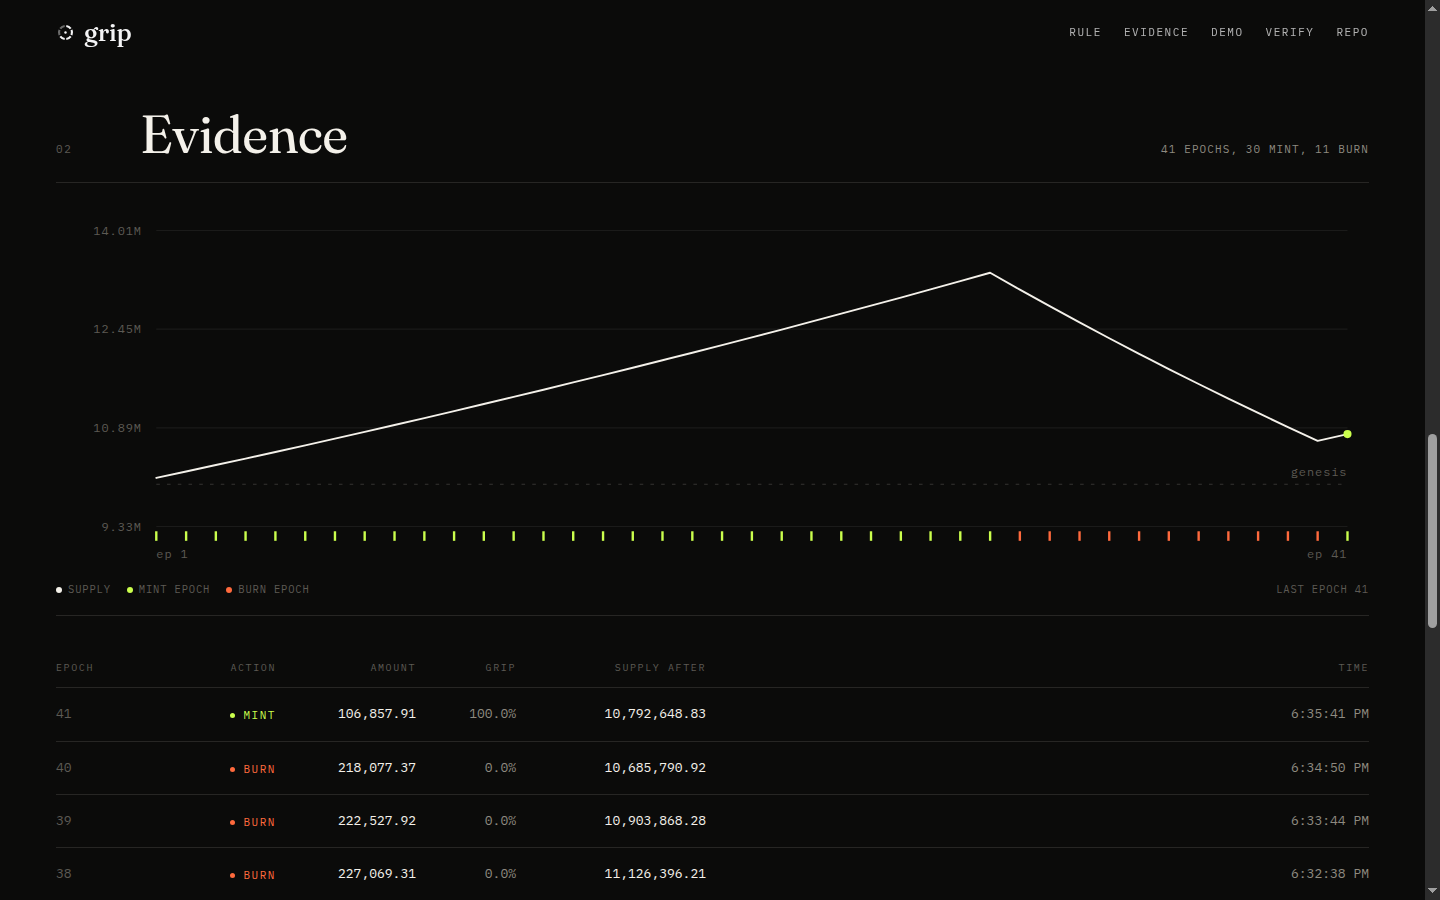
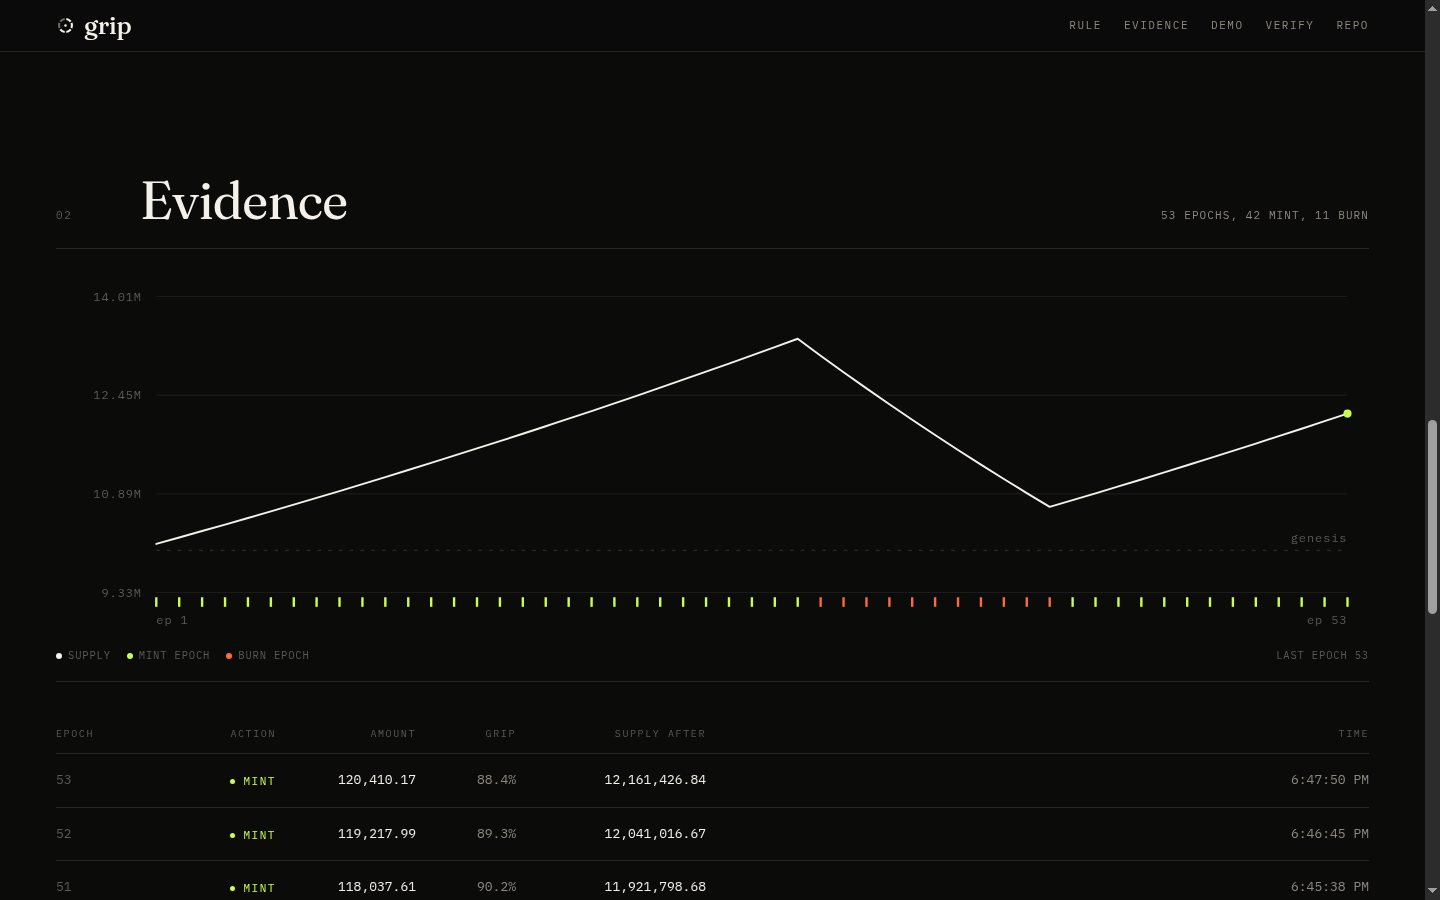
ui: give the sphere its own column, and let the page move
Composition first, since the note was that the sphere crowded the headline.
It was true and it was measurable: the sphere's left edge sat 0px from the
type. The canvas now measures the right edge of the hero copy (heading, lede,
last CTA) on resize and after the webfonts settle, then sizes and places itself
in the space that is actually free, clamped to the viewport. Gap is now 81px at
1440 and it holds at every width because it is derived, not hardcoded.

Motion, all tied to something real:
- an epoch rolling sends one ring out from the sphere, and flashes the value
  that changed in the readout
- bands fade up when they enter the viewport, hero rises once on load
- scrolling gives the sphere a little rotational inertia
- the nav gains a real surface past the fold instead of letting body text bleed
  through the difference blend, and anchors now clear it

Verified: epoch 52 to 53 in the browser, supply updated, 2 cells flashed, zero
window error events. All nine checks in verify.sh pass.

diff --git a/docs/index.html b/docs/index.html
@@ -49,7 +49,20 @@
     display:flex;align-items:center;gap:24px;
     padding:20px var(--gut);
     mix-blend-mode:difference;
+    transition:background .28s ease,border-color .28s ease,padding .28s ease;
+    border-bottom:1px solid transparent;
   }
+  .top.solid{
+    mix-blend-mode:normal;
+    background:rgba(11,11,10,.86);
+    backdrop-filter:blur(16px) saturate(150%);
+    -webkit-backdrop-filter:blur(16px) saturate(150%);
+    border-bottom-color:var(--line);
+    padding-top:13px;padding-bottom:13px;
+  }
+  .top.solid .logo{color:var(--ink)}
+  .top.solid nav a{color:var(--muted)}
+  .top.solid nav a:hover{color:var(--ink)}
   .logo{
     display:flex;align-items:center;gap:9px;
     font-family:var(--serif);font-size:25px;letter-spacing:-.01em;line-height:1;
@@ -167,7 +180,7 @@
   }
 
   /* ---------------------------------------------------------- bands */
-  .band{padding:clamp(72px,12vh,140px) var(--gut)}
+  .band{padding:clamp(72px,12vh,140px) var(--gut);scroll-margin-top:84px}
   .band-in{max-width:1320px;margin:0 auto}
   .band-head{
     display:grid;grid-template-columns:64px 1fr auto;align-items:baseline;gap:20px;
@@ -267,12 +280,31 @@
   }
   .err.on{display:block}
 
+  /* entrance: the hero rises, once */
+  .js .hero > *{animation:rise .85s cubic-bezier(.2,.8,.2,1) both}
+  .js .hero > :nth-child(2){animation-delay:.06s}
+  .js .hero > :nth-child(3){animation-delay:.13s}
+  .js .hero > :nth-child(4){animation-delay:.2s}
+  .js .readout{animation:rise .9s cubic-bezier(.2,.8,.2,1) .28s both}
+  @keyframes rise{from{opacity:0;transform:translateY(14px)}to{opacity:1;transform:none}}
+
+  /* bands arrive when they are reached, not on a timer */
+  .js .band{opacity:0;transform:translateY(18px);transition:opacity .75s ease,transform .75s cubic-bezier(.2,.8,.2,1)}
+  .js .band.in{opacity:1;transform:none}
+
+  /* a live value pulses when it changes */
+  .readout .cell.flash .v{animation:flash .9s ease-out}
+  @keyframes flash{0%{color:var(--lime)}100%{color:var(--ink)}}
+
   @media (prefers-reduced-motion:reduce){
     *{animation:none!important;transition:none!important}
     .curve{stroke-dashoffset:0}
+    .js .band,.js .hero > *,.js .readout{opacity:1!important;transform:none!important}
   }
 </style>
 </head>
+<script>document.documentElement.classList.add("js")</script>
+
 <body>
 
 <header class="top">
@@ -528,6 +560,8 @@
   let W = 0, H = 0, DPR = 1;
   let pts = [], rings = [], mouseX = 0, mouseY = 0, targetMX = 0, targetMY = 0;
   let gripNow = 0, gripTarget = 0, gripInit = false, t0 = performance.now();
+  let textEdge = 0, spins = 0, spinVel = 0;
+  const shocks = [];
 
   const fib = (n) => {
     const out = [], ga = Math.PI * (3 - Math.sqrt(5));
@@ -553,11 +587,25 @@
     }
   };
 
+  // The sphere is placed against the measured right edge of the hero copy, so the two never
+  // share pixels at any width. Measured on resize and once the webfonts have settled.
+  const measure = () => {
+    if (window.innerWidth < 900) { textEdge = 0; return; }
+    const r = ['.hero h1', '.lede'].map((sel) => {
+      const el = document.querySelector(sel);
+      return el ? el.getBoundingClientRect().right : 0;
+    });
+    const acts = document.querySelector('.actions');
+    if (acts && acts.lastElementChild) r.push(acts.lastElementChild.getBoundingClientRect().right);
+    textEdge = Math.max.apply(null, r);
+  };
+
   const resize = () => {
     DPR = Math.min(2, window.devicePixelRatio || 1);
     W = cv.clientWidth; H = cv.clientHeight;
     cv.width = Math.round(W * DPR); cv.height = Math.round(H * DPR);
     cx.setTransform(DPR, 0, 0, DPR, 0, 0);
+    measure();
   };
 
   const project = (p, R, rot) => {
@@ -583,20 +631,31 @@
     mouseX += (targetMX - mouseX) * 0.05;
     mouseY += (targetMY - mouseY) * 0.05;
 
-    cx0 = W * (W < 760 ? 0.5 : 0.64);
-    cy0 = H * (W < 760 ? 0.185 : 0.46);
-
-    const base = Math.min(W, H) * (W < 760 ? 0.23 : 0.31);
     const tight = 1.0 - 0.16 * gripNow;            // gripped: contracts
     const loose = 1.0 + 0.34 * (1 - gripNow);      // folding: disperses
-    const R = base * tight * loose;
+    const base = Math.min(W, H) * (W < 900 ? 0.24 : 0.275);
+    let R = base * tight * loose;
+
+    if (textEdge) {
+      const gap = 52, rightLimit = W - 30, reach = 1.16; // rings extend past the sphere radius
+      const avail = rightLimit - (textEdge + gap);
+      R = Math.min(R, Math.max(96, avail / (2 * reach)));
+      cx0 = textEdge + gap + R;
+      if (cx0 + R * reach > W - 18) { cx0 = W - 18 - R * reach; }
+      cy0 = H * 0.4;
+    } else {
+      cx0 = W * 0.5;
+      cy0 = H * 0.185;
+    }
 
     cx.clearRect(0, 0, W, H);
     cx.globalCompositeOperation = 'source-over';
 
+    spinVel *= 0.955;
+    spins += spinVel;
     const rot = {
       x: 0.48 + Math.sin(t * 0.22) * 0.16 + mouseY * 0.5,
-      y: t * 0.26 + mouseX * 0.9,
+      y: t * 0.26 + mouseX * 0.9 + spins,
     };
 
     const all = [];
@@ -633,6 +692,17 @@
       cx.beginPath();
       cx.arc(q.x, q.y, Math.max(0.4, size), 0, 6.2832);
       cx.fill();
+    }
+
+    // an epoch just rolled: send one ring out from the sphere
+    for (let i = shocks.length - 1; i >= 0; i -= 1) {
+      const p2 = (now - shocks[i]) / 1600;
+      if (p2 >= 1) { shocks.splice(i, 1); continue; }
+      cx.beginPath();
+      cx.arc(cx0, cy0, R * (1.02 + 0.62 * p2), 0, 6.2832);
+      cx.strokeStyle = 'rgba(203,255,77,' + (0.34 * (1 - p2) * (1 - p2)).toFixed(3) + ')';
+      cx.lineWidth = 1.2;
+      cx.stroke();
     }
 
     // a brighter core for the nearest points
@@ -806,6 +876,18 @@
     gripTarget = s.locked_share_bps / 10000;
     if (!gripInit) { gripNow = gripTarget; gripInit = true; }
 
+    const flash = (id, changed) => {
+      if (!changed) return;
+      const cell = $(id).closest('.cell');
+      cell.classList.remove('flash');
+      void cell.offsetWidth;
+      cell.classList.add('flash');
+    };
+    flash('vSupply', !!last && last.total_supply !== s.total_supply);
+    flash('vLocked', !!last && last.total_locked !== s.total_locked);
+    flash('vEpoch', !!last && last.epoch !== s.epoch);
+    if (last && last.epoch !== s.epoch) shocks.push(performance.now());
+
     countTo($('vSupply'), supply, 0);
     countTo($('vLocked'), locked, 0);
     countTo($('vReserve'), reserve, 0);
@@ -882,6 +964,31 @@
     catch (e) { $('copyBtn').textContent = 'Select it manually'; }
     setTimeout(() => { $('copyBtn').textContent = 'Copy the call'; }, 1800);
   });
+
+  const topBar = document.querySelector('.top');
+  const onScrollChrome = () => { topBar.classList.toggle('solid', window.scrollY > 48); };
+
+  let lastScroll = window.scrollY;
+  addEventListener('scroll', () => {
+    const dy = window.scrollY - lastScroll;
+    lastScroll = window.scrollY;
+    spinVel = Math.max(-0.55, Math.min(0.55, spinVel + dy * 0.0014));
+    onScrollChrome();
+  }, { passive: true });
+  onScrollChrome();
+
+  if (!reduced && 'IntersectionObserver' in window) {
+    const io = new IntersectionObserver((entries) => {
+      entries.forEach((e) => {
+        if (e.isIntersecting) { e.target.classList.add('in'); io.unobserve(e.target); }
+      });
+    }, { rootMargin: '0px 0px -12% 0px' });
+    document.querySelectorAll('.band').forEach((b) => io.observe(b));
+  } else {
+    document.querySelectorAll('.band').forEach((b) => b.classList.add('in'));
+  }
+
+  if (document.fonts && document.fonts.ready) document.fonts.ready.then(measure);
 
   build(); resize(); requestAnimationFrame(drawOrb); refresh();
   setInterval(refresh, 6000);
